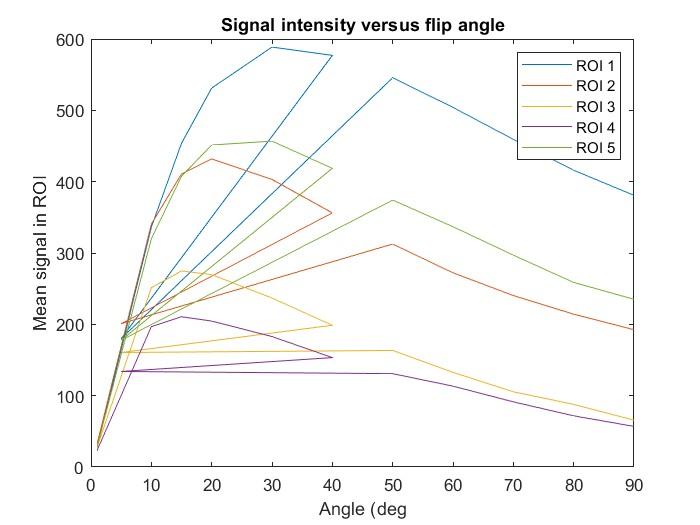
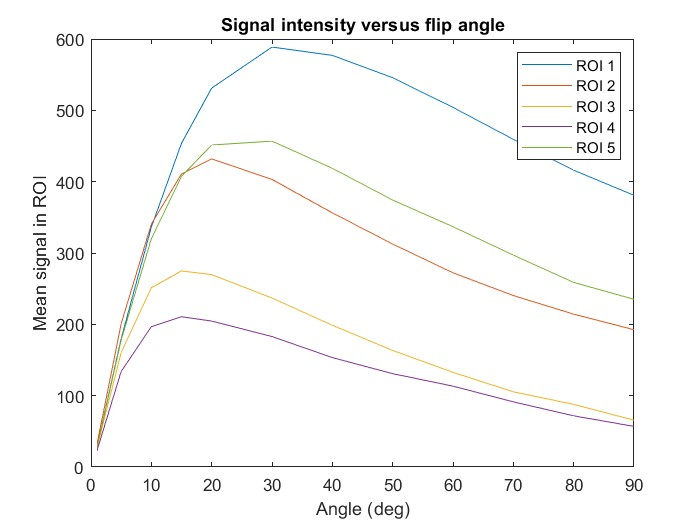
Fixed sorting issue

diff --git a/Lab report/Exercise2.m b/Lab report/Exercise2.m
@@ -47,6 +47,14 @@ for p = 1:size(names,2)
     
 end
 
+%Fix data sorting
+% [TItimes, I] = sort(TItimes);
+[Angles, I] = sort(Angles);
+for i = 1:size(Data,1)
+    line = Data(i,:);
+    Data(i,:) = line(I); 
+end
+
 %Plot figure
 figure
 %comment/uncomment relevant one:
@@ -56,5 +64,5 @@ legend('ROI 1', 'ROI 2', 'ROI 3', 'ROI 4', 'ROI 5');
 % title('Signal intensity versus Inversion Time')
 title('Signal intensity versus flip angle')
 % xlabel('TI (ms)')
-xlabel('Angle (deg')
+xlabel('Angle (deg)')
 ylabel('Mean signal in ROI')
